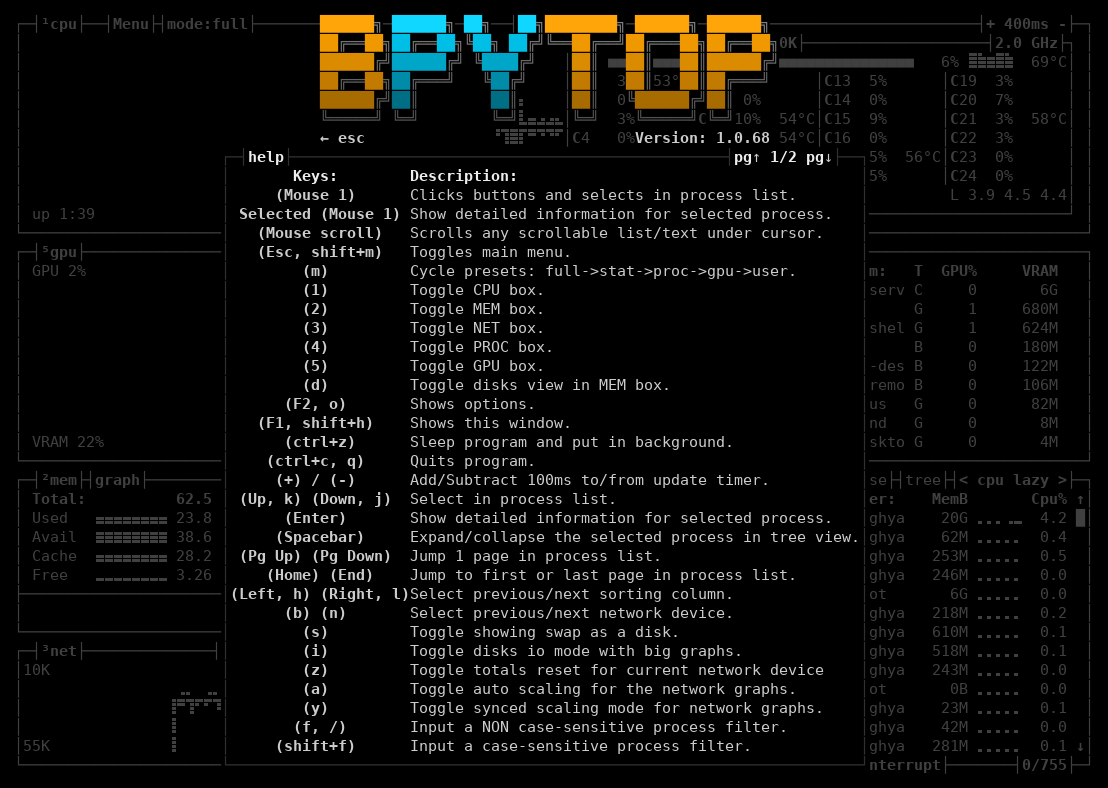
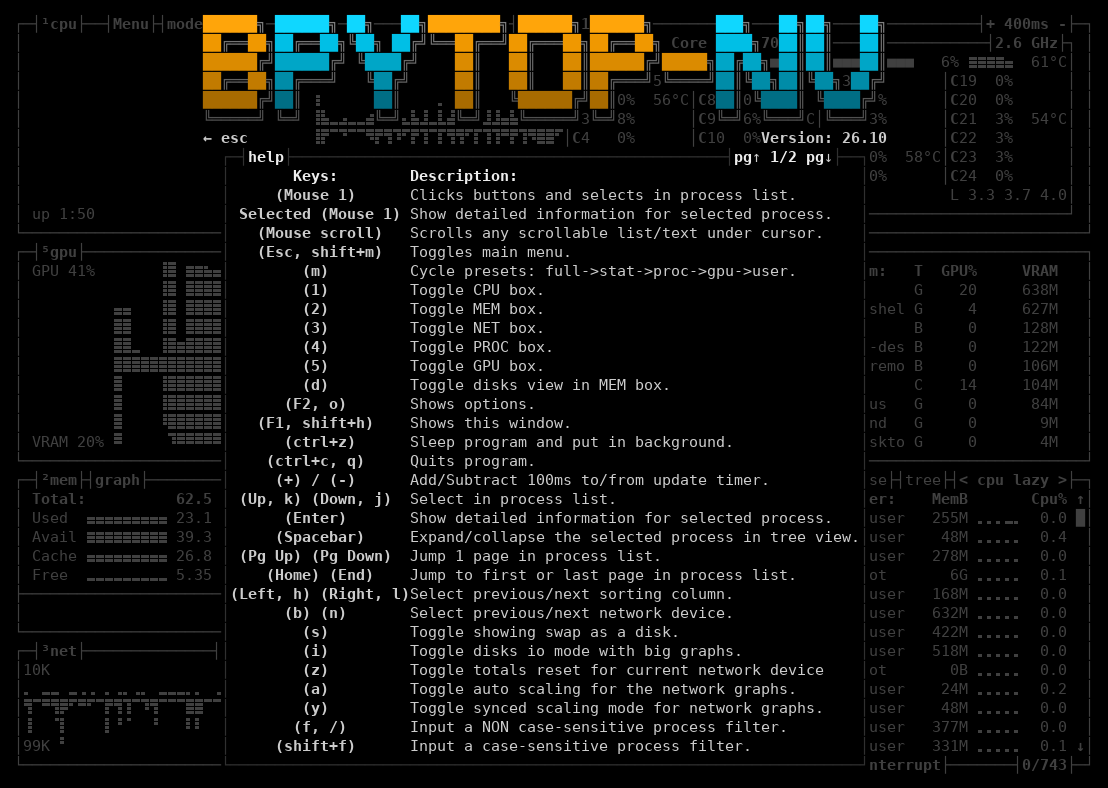
Rename user-facing bpytop strings to bpytop-nv, bump CI actions
- Banner now reads BPYTOP-NV; menu and empty-screen labels are placed
  from the banner width instead of fixed offsets.
- Exit message, log lines, config header and option help say bpytop-nv;
  system config is /etc/bpytop-nv.conf.
- Bump checkout and setup-python to v7, upload-artifact to v7 and
  download-artifact to v8 (Node.js 20 deprecation).
- Recapture the help screenshot with the new banner.

diff --git a/bpytop_nv/__init__.py b/bpytop_nv/__init__.py
@@ -78,16 +78,16 @@ DEBUG: bool = stdargs.debug
 #? Variables ------------------------------------------------------------------------------------->
 
 BANNER_SRC: List[Tuple[str, str, str]] = [
-	("#ffa50a", "#0fd7ff", "██████╗ ██████╗ ██╗   ██╗████████╗ ██████╗ ██████╗"),
-	("#f09800", "#00bfe6", "██╔══██╗██╔══██╗╚██╗ ██╔╝╚══██╔══╝██╔═══██╗██╔══██╗"),
-	("#db8b00", "#00a6c7", "██████╔╝██████╔╝ ╚████╔╝    ██║   ██║   ██║██████╔╝"),
-	("#c27b00", "#008ca8", "██╔══██╗██╔═══╝   ╚██╔╝     ██║   ██║   ██║██╔═══╝ "),
-	("#a86b00", "#006e85", "██████╔╝██║        ██║      ██║   ╚██████╔╝██║"),
-	("#000000", "#000000", "╚═════╝ ╚═╝        ╚═╝      ╚═╝    ╚═════╝ ╚═╝"),
+	("#ffa50a", "#0fd7ff", "██████╗ ██████╗ ██╗   ██╗████████╗ ██████╗ ██████╗       ███╗   ██╗██╗   ██╗"),
+	("#f09800", "#00bfe6", "██╔══██╗██╔══██╗╚██╗ ██╔╝╚══██╔══╝██╔═══██╗██╔══██╗      ████╗  ██║██║   ██║"),
+	("#db8b00", "#00a6c7", "██████╔╝██████╔╝ ╚████╔╝    ██║   ██║   ██║██████╔╝█████╗██╔██╗ ██║██║   ██║"),
+	("#c27b00", "#008ca8", "██╔══██╗██╔═══╝   ╚██╔╝     ██║   ██║   ██║██╔═══╝ ╚════╝██║╚██╗██║╚██╗ ██╔╝"),
+	("#a86b00", "#006e85", "██████╔╝██║        ██║      ██║   ╚██████╔╝██║           ██║ ╚████║ ╚████╔╝"),
+	("#000000", "#000000", "╚═════╝ ╚═╝        ╚═╝      ╚═╝    ╚═════╝ ╚═╝           ╚═╝  ╚═══╝  ╚═══╝"),
 ]
 
 #*?This is the template used to create the config file
-DEFAULT_CONF: Template = Template(f'#? Config file for bpytop v. {VERSION}' + '''
+DEFAULT_CONF: Template = Template(f'#? Config file for bpytop-nv v. {VERSION}' + '''
 
 #* Color theme, looks for a .theme file in "/usr/[local/]share/bpytop/themes" and "~/.config/bpytop-nv/themes", "Default" for builtin default theme.
 #* Prefix name by a plus sign (+) for a theme located in user themes folder, i.e. color_theme="+monokai"
@@ -106,7 +106,7 @@ shown_boxes="$shown_boxes"
 update_ms=$update_ms
 
 #* Processes update multiplier, sets how often the process list is updated as a multiplier of "update_ms".
-#* Set to 2 or higher to greatly decrease bpytop cpu usage. (Only integers)
+#* Set to 2 or higher to greatly decrease bpytop-nv cpu usage. (Only integers)
 proc_update_mult=$proc_update_mult
 
 #* Processes sorting, "pid" "program" "arguments" "threads" "user" "memory" "cpu lazy" "cpu responsive",
@@ -522,7 +522,7 @@ class Config:
 			self.info.append(f'Config file malformatted or missing, will be recreated on exit!')
 		elif conf["version"] != VERSION:
 			self.recreate = True
-			self.info.append(f'Config file version and bpytop version mismatch, will be recreated on exit!')
+			self.info.append(f'Config file version and bpytop-nv version mismatch, will be recreated on exit!')
 		for key in self.keys:
 			if key in conf.keys() and conf[key] != "_error_":
 				setattr(self, key, conf[key])
@@ -544,10 +544,10 @@ class Config:
 		conf_file: str = ""
 		if os.path.isfile(self.config_file):
 			conf_file = self.config_file
-		elif SYSTEM == "BSD" and os.path.isfile("/usr/local/etc/bpytop.conf"):
-			conf_file = "/usr/local/etc/bpytop.conf"
-		elif SYSTEM != "BSD" and os.path.isfile("/etc/bpytop.conf"):
-			conf_file = "/etc/bpytop.conf"
+		elif SYSTEM == "BSD" and os.path.isfile("/usr/local/etc/bpytop-nv.conf"):
+			conf_file = "/usr/local/etc/bpytop-nv.conf"
+		elif SYSTEM != "BSD" and os.path.isfile("/etc/bpytop-nv.conf"):
+			conf_file = "/etc/bpytop-nv.conf"
 		else:
 			return new_config
 		try:
@@ -623,7 +623,7 @@ try:
 	else:
 		errlog.setLevel(getattr(logging, CONFIG.log_level))
 		DEBUG = CONFIG.log_level == "DEBUG"
-	errlog.info(f'New instance of bpytop version {VERSION} started with pid {os.getpid()}')
+	errlog.info(f'New instance of bpytop-nv version {VERSION} started with pid {os.getpid()}')
 	errlog.info(f'Loglevel set to {"DEBUG" if DEBUG else CONFIG.log_level}')
 	errlog.debug(f'Using psutil version {".".join(str(x) for x in psutil.version_info)}')
 	errlog.debug(f'CMD: {" ".join(sys.argv)}')
@@ -1380,7 +1380,7 @@ class Theme:
 		return new_theme
 
 class Banner:
-	'''Holds the bpytop banner, .draw(line, [col=0], [center=False], [now=False])'''
+	'''Holds the bpytop-nv banner, .draw(line, [col=0], [center=False], [now=False])'''
 	out: List[str] = []
 	c_color: str = ""
 	length: int = 0
@@ -1393,7 +1393,7 @@ class Banner:
 			line_dark = Color.fg(f'#{80 - num * 6}')
 			for n, letter in enumerate(line):
 				if letter == "█" and c_color != line_color:
-					if 5 < n < 25: c_color = line_color2
+					if 5 < n < 25 or n > 56: c_color = line_color2
 					else: c_color = line_color
 					out_var += c_color
 				elif letter == " ":
@@ -1756,9 +1756,9 @@ class Box:
 	def empty_bg(cls) -> str:
 		return (f'{Term.clear}' +
 				(f'{Banner.draw(Term.height // 2 - 10, center=True)}'
-				f'{Mv.d(1)}{Mv.l(46)}{Colors.black_bg}{Colors.default}{Fx.b}[esc] Menu'
-				f'{Mv.r(25)}{Fx.i}Version: {VERSION}{Fx.ui}' if Term.height > 22 else "") +
-				f'{Mv.d(1)}{Mv.l(34)}{Fx.b}All boxes hidden!'
+				f'{Mv.d(1)}{Mv.l(74)}{Colors.black_bg}{Colors.default}{Fx.b}[esc] Menu'
+				f'{Mv.r(Banner.length - 19 - len(VERSION))}{Fx.i}Version: {VERSION}{Fx.ui}' if Term.height > 22 else "") +
+				f'{Mv.d(1)}{Mv.l(Banner.length // 2 + 8)}{Fx.b}All boxes hidden!'
 				f'{Mv.d(1)}{Mv.l(17)}{Fx.b}[1] {Fx.ub}Toggle CPU box'
 				f'{Mv.d(1)}{Mv.l(18)}{Fx.b}[2] {Fx.ub}Toggle MEM box'
 				f'{Mv.d(1)}{Mv.l(18)}{Fx.b}[3] {Fx.ub}Toggle NET box'
@@ -4434,8 +4434,8 @@ class Menu:
 		while not cls.close:
 			key = ""
 			if cls.resized:
-				banner = (f'{Banner.draw(Term.height // 2 - 10, center=True)}{Mv.d(1)}{Mv.l(46)}{Colors.black_bg}{Colors.default}{Fx.b}← esc'
-					f'{Mv.r(30)}{Fx.i}Version: {VERSION}{Fx.ui}{Fx.ub}{Term.bg}{Term.fg}')
+				banner = (f'{Banner.draw(Term.height // 2 - 10, center=True)}{Mv.d(1)}{Mv.l(74)}{Colors.black_bg}{Colors.default}{Fx.b}← esc'
+					f'{Mv.r(Banner.length - 14 - len(VERSION))}{Fx.i}Version: {VERSION}{Fx.ui}{Fx.ub}{Term.bg}{Term.fg}')
 				if UpdateChecker.version != VERSION:
 					banner += f'{Mv.to(Term.height, 1)}{Fx.b}{THEME.title}New release {UpdateChecker.version} available at https://github.com/amukherjee1991/bpytop-nv{Fx.ub}{Term.fg}'
 				cy = 0
@@ -4578,8 +4578,8 @@ class Menu:
 			key = ""
 			if cls.resized:
 				y = 8 if Term.height < len(help_items) + 10 else Term.height // 2 - len(help_items) // 2 + 4
-				out_misc = (f'{Banner.draw(y-7, center=True)}{Mv.d(1)}{Mv.l(46)}{Colors.black_bg}{Colors.default}{Fx.b}← esc'
-					f'{Mv.r(30)}{Fx.i}Version: {VERSION}{Fx.ui}{Fx.ub}{Term.bg}{Term.fg}')
+				out_misc = (f'{Banner.draw(y-7, center=True)}{Mv.d(1)}{Mv.l(74)}{Colors.black_bg}{Colors.default}{Fx.b}← esc'
+					f'{Mv.r(Banner.length - 14 - len(VERSION))}{Fx.i}Version: {VERSION}{Fx.ui}{Fx.ub}{Term.bg}{Term.fg}')
 				x = Term.width//2-36
 				h, w = Term.height-2-y, 72
 				if len(help_items) > h:
@@ -4986,7 +4986,7 @@ class Menu:
 					'Sets how often the process list is updated as',
 					'a multiplier of "update_ms".',
 					'',
-					'Set to 2 or higher to greatly decrease bpytop',
+					'Set to 2 or higher to greatly decrease bpytop-nv',
 					'cpu usage. (Only integers)'],
 				"proc_sorting" : [
 					'Processes sorting option.',
@@ -5054,8 +5054,8 @@ class Menu:
 				option_items = categories[cat_list[cat_int]]
 				option_len: int = len(option_items) * 2
 				y = 12 if Term.height < max_opt_len + 13 else Term.height // 2 - max_opt_len // 2 + 7
-				out_misc = (f'{Banner.draw(y-10, center=True)}{Mv.d(1)}{Mv.l(46)}{Colors.black_bg}{Colors.default}{Fx.b}← esc'
-					f'{Mv.r(30)}{Fx.i}Version: {VERSION}{Fx.ui}{Fx.ub}{Term.bg}{Term.fg}')
+				out_misc = (f'{Banner.draw(y-10, center=True)}{Mv.d(1)}{Mv.l(74)}{Colors.black_bg}{Colors.default}{Fx.b}← esc'
+					f'{Mv.r(Banner.length - 14 - len(VERSION))}{Fx.i}Version: {VERSION}{Fx.ui}{Fx.ub}{Term.bg}{Term.fg}')
 				x = Term.width//2-38
 				x2 = x + 27
 				h, w, w2 = min(Term.height-1-y, option_len), 26, 50
@@ -5461,7 +5461,7 @@ class Init:
 		Draw.buffer("initbg", z=10)
 		for i in range(51):
 			for _ in range(2): cls.initbg_colors.append(Color.fg(i, i, i))
-		Draw.buffer("banner", (f'{Banner.draw(Term.height // 2 - 10, center=True)}{Mv.d(1)}{Mv.l(11)}{Colors.black_bg}{Colors.default}'
+		Draw.buffer("banner", (f'{Banner.draw(Term.height // 2 - 10, center=True)}{Mv.d(1)}{Mv.l(27)}{Colors.black_bg}{Colors.default}'
 				f'{Fx.b}{Fx.i}Version: {VERSION}{Fx.ui}{Fx.ub}{Term.bg}{Term.fg}{Color.fg("#50")}'), z=2)
 		for _i in range(7):
 			perc = f'{str(round((_i + 1) * 14 + 2)) + "%":>5}'
@@ -5669,7 +5669,7 @@ def clean_quit(errcode: int = 0, errmsg: str = "", thread: bool = False):
 		errlog.info(f'Exiting. Runtime {timedelta(seconds=round(time() - SELF_START, 0))} \n')
 	else:
 		errlog.warning(f'Exiting with errorcode ({errcode}). Runtime {timedelta(seconds=round(time() - SELF_START, 0))} \n')
-		if not errmsg: errmsg = f'Bpytop exited with errorcode ({errcode}). See {CONFIG_DIR}/error.log for more information!'
+		if not errmsg: errmsg = f'bpytop-nv exited with errorcode ({errcode}). See {CONFIG_DIR}/error.log for more information!'
 	if errmsg: print(errmsg)
 
 	raise SystemExit(errcode)
